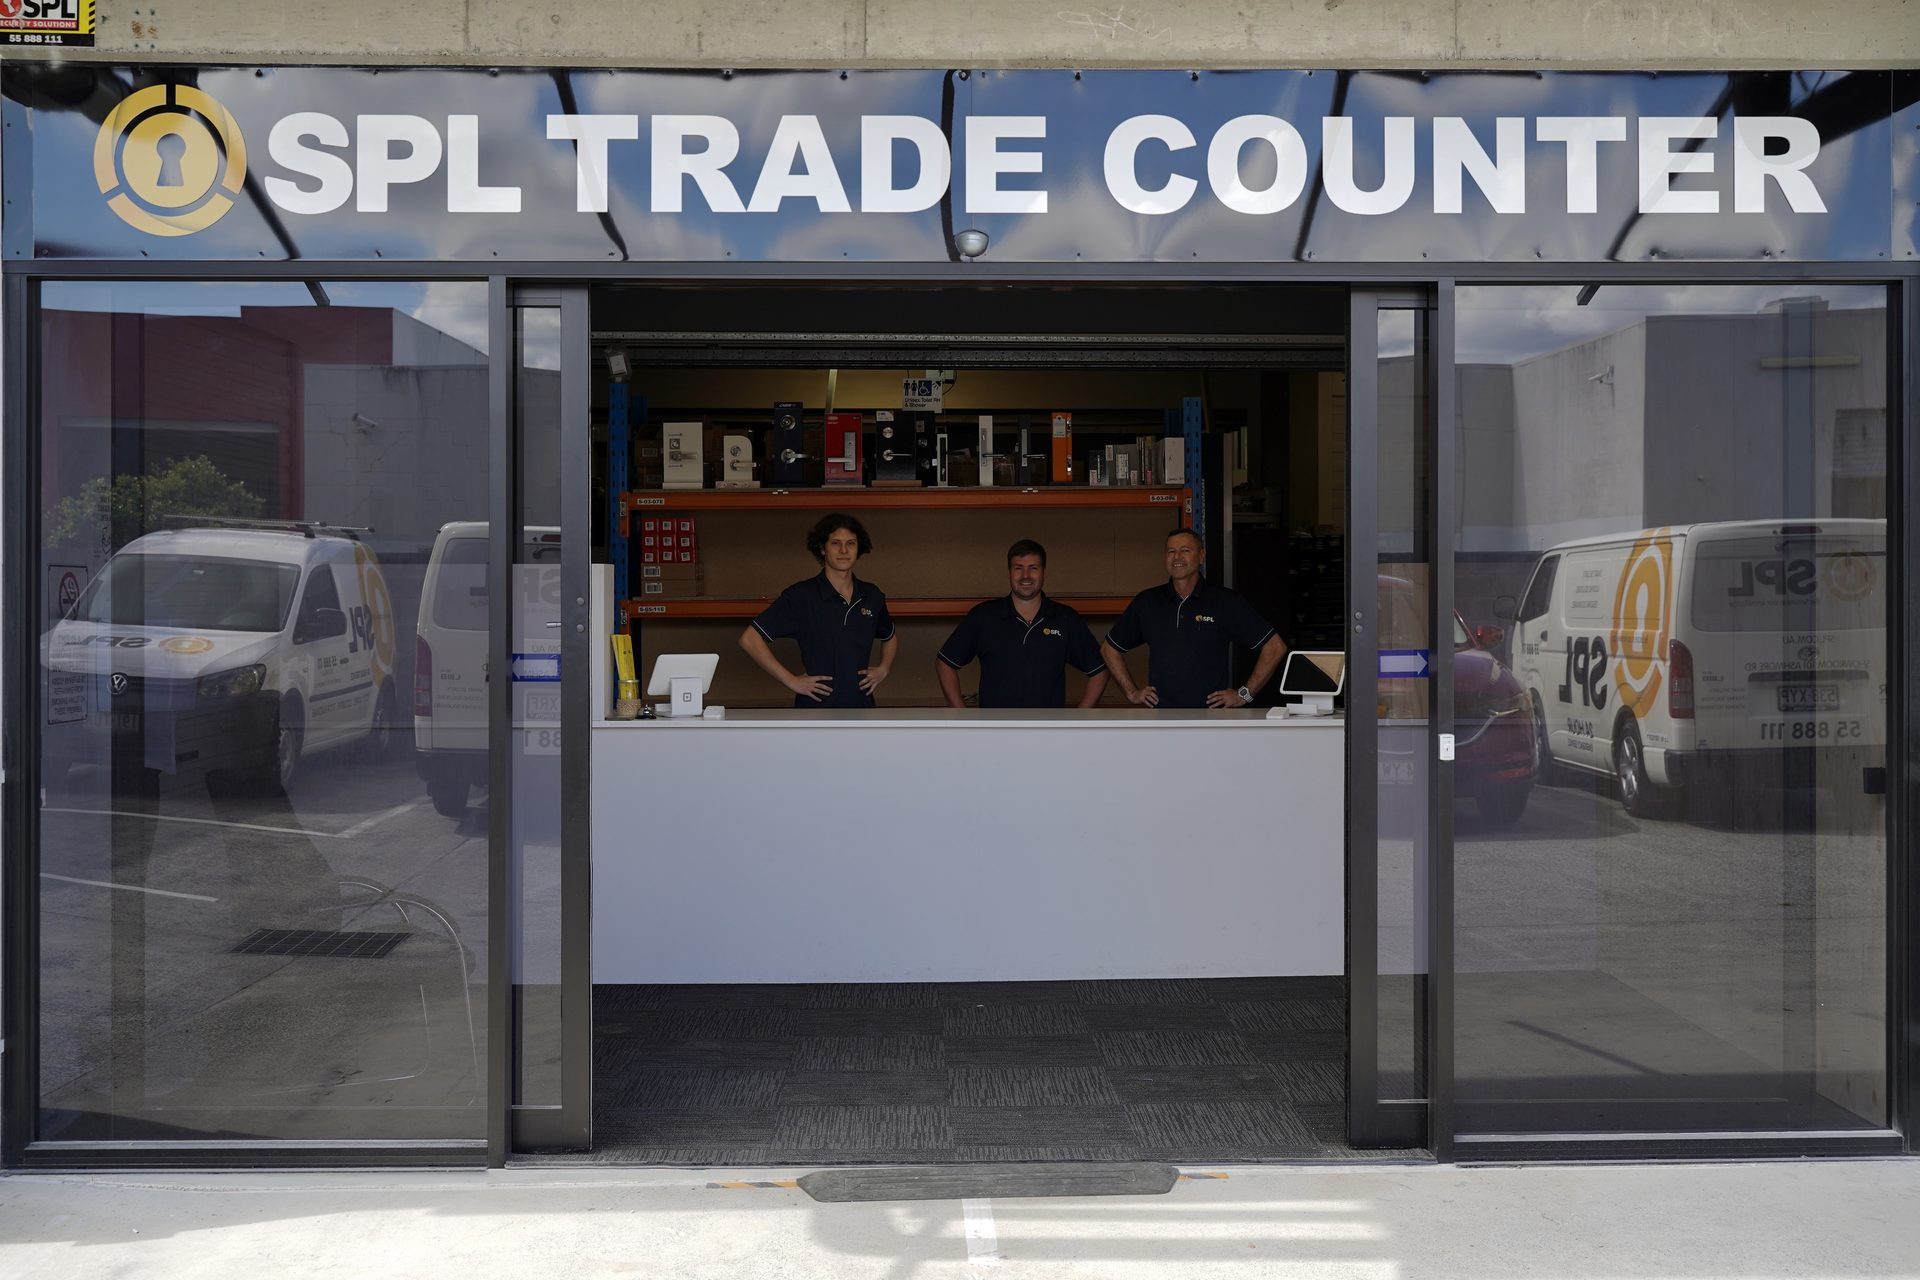
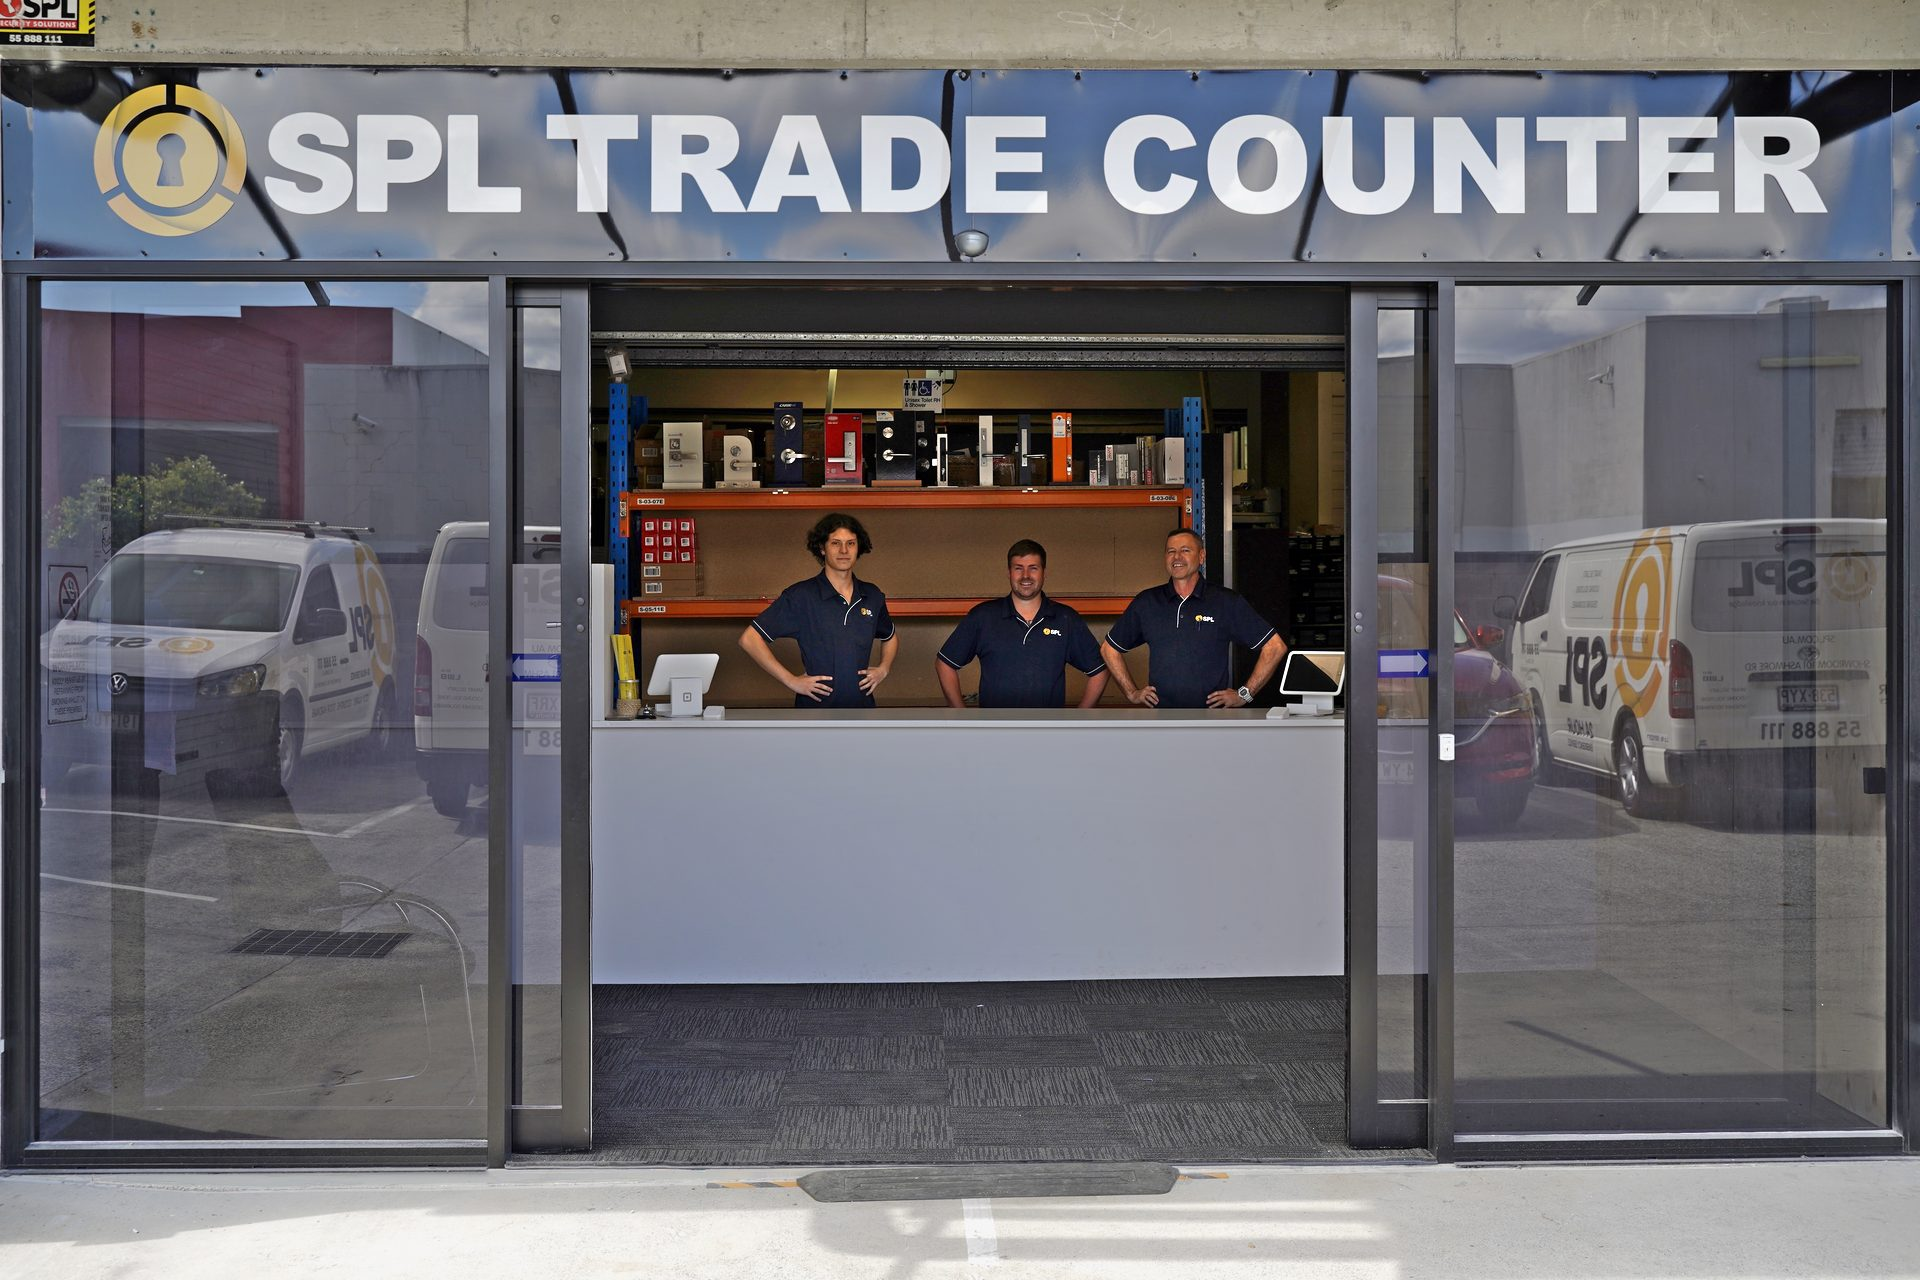
Lighten SPL Trade Counter shopfront photo (selective shadow lift), cache-bust v2

diff --git a/public/retail-security/index.html b/public/retail-security/index.html
@@ -36,7 +36,7 @@
 
 <div class="editorial-block"> <h2 id="section-security-solutions-with-spl">Security Solutions
 With SPL</h2>
-</div><figure class="editorial-image editorial-media"><img loading="lazy" src="../assets/imported/spl-trade-counter-shopfront.jpg?v=1" alt="SPL Trade Counter shopfront with three SPL staff behind the counter and SPL vans reflected in the glass" width="1920" height="1280" decoding="async"></figure>
+</div><figure class="editorial-image editorial-media"><img loading="lazy" src="../assets/imported/spl-trade-counter-shopfront.jpg?v=2" alt="SPL Trade Counter shopfront with three SPL staff behind the counter and SPL vans reflected in the glass" width="1920" height="1280" decoding="async"></figure>
 <div class="editorial-block"><p>At SPL Security Solutions, we offer tailored retail security solutions to protect your valuables. Our team provides a wide range of products and services to meet your security needs.</p><p>Our key cutting services ensure you always have reliable duplicates, crafted with precision for a perfect fit. For enhanced
 <a href="../access-control-systems/index.html">access control</a>, we offer state-of-the-art digital locks, combining convenience and security with options like keyless entry and smartphone integration.
 <a href="../safe/index.html">Safes</a> are another key offering, with models suitable for securing documents, cash and valuables, available in various sizes and locking mechanisms. Additionally, our

diff --git a/scripts/prepare-retail-trade-counter.py b/scripts/prepare-retail-trade-counter.py
@@ -3,11 +3,13 @@
 
 3:2 crop that trims part of the concrete overhang at the top (keeps sign, staff,
 counter and vans reflected in the glass), trims a little off each side to hold 3:2,
+applies a selective shadow lift so the staff inside are visible,
 exports 1920x1280 JPEG and points the page's first editorial <img> at it (cache-busted).
 """
 from pathlib import Path
 import re
-from PIL import Image, ImageOps
+from PIL import Image, ImageOps, ImageFilter
+import numpy as np
 
 ROOT = Path(__file__).resolve().parents[1]
 SRC = ROOT / 'assets/source/spl-trade-counter-shopfront.jpg'
@@ -15,8 +17,28 @@ NAME = 'spl-trade-counter-shopfront.jpg'
 OUT = ROOT / 'public/assets/imported' / NAME
 PAGE = ROOT / 'public/retail-security/index.html'
 ALT = 'SPL Trade Counter shopfront with three SPL staff behind the counter and SPL vans reflected in the glass'
-CACHE_V = 1
+CACHE_V = 2
+SHADOW_LIFT = 0.85   # strength of shadow/midtone lift (0 = off)
+HIGHLIGHT_KNEE = 0.62  # luminance above which the lift fades to zero (protects glass/white counter)
 TOP_TRIM = 0.075  # fraction of height removed from the top (concrete overhang)
+
+
+def lift_shadows(im):
+    """Selective shadow/midtone lift: gain from a blurred luminance mask (local tone map),
+    applied equally to R,G,B to keep natural colour; fades out above HIGHLIGHT_KNEE."""
+    a = np.asarray(im).astype(np.float32) / 255.0
+    lum = 0.2126 * a[..., 0] + 0.7152 * a[..., 1] + 0.0722 * a[..., 2]
+    blur = np.asarray(Image.fromarray((lum * 255).astype(np.uint8)).filter(
+        ImageFilter.GaussianBlur(radius=max(im.size) / 120))).astype(np.float32) / 255.0
+    # target local luminance via gamma curve; weight fades smoothly towards highlights
+    target = np.power(np.clip(blur, 1e-4, 1), 0.55)
+    w = np.clip(1 - blur / HIGHLIGHT_KNEE, 0, 1) ** 1.5
+    gain = 1 + SHADOW_LIFT * w * (target / np.maximum(blur, 1e-3) - 1)
+    gain = np.clip(gain, 1, 2.6)
+    out = a * gain[..., None]
+    # soft shoulder so nothing clips harshly
+    out = np.where(out > 0.9, 0.9 + (1 - np.exp(-(out - 0.9) * 10)) * 0.1, out)
+    return Image.fromarray((np.clip(out, 0, 1) * 255 + 0.5).astype(np.uint8))
 
 
 def main():
@@ -29,6 +51,7 @@ def main():
     left = (w - cw) // 2
     crop = im.crop((left, top, left + cw, top + ch)).resize((1920, 1280), Image.Resampling.LANCZOS)
     OUT.parent.mkdir(parents=True, exist_ok=True)
+    crop = lift_shadows(crop)
     crop.save(OUT, 'JPEG', quality=82, optimize=True, progressive=True)
 
     html = PAGE.read_text(encoding='utf-8')
